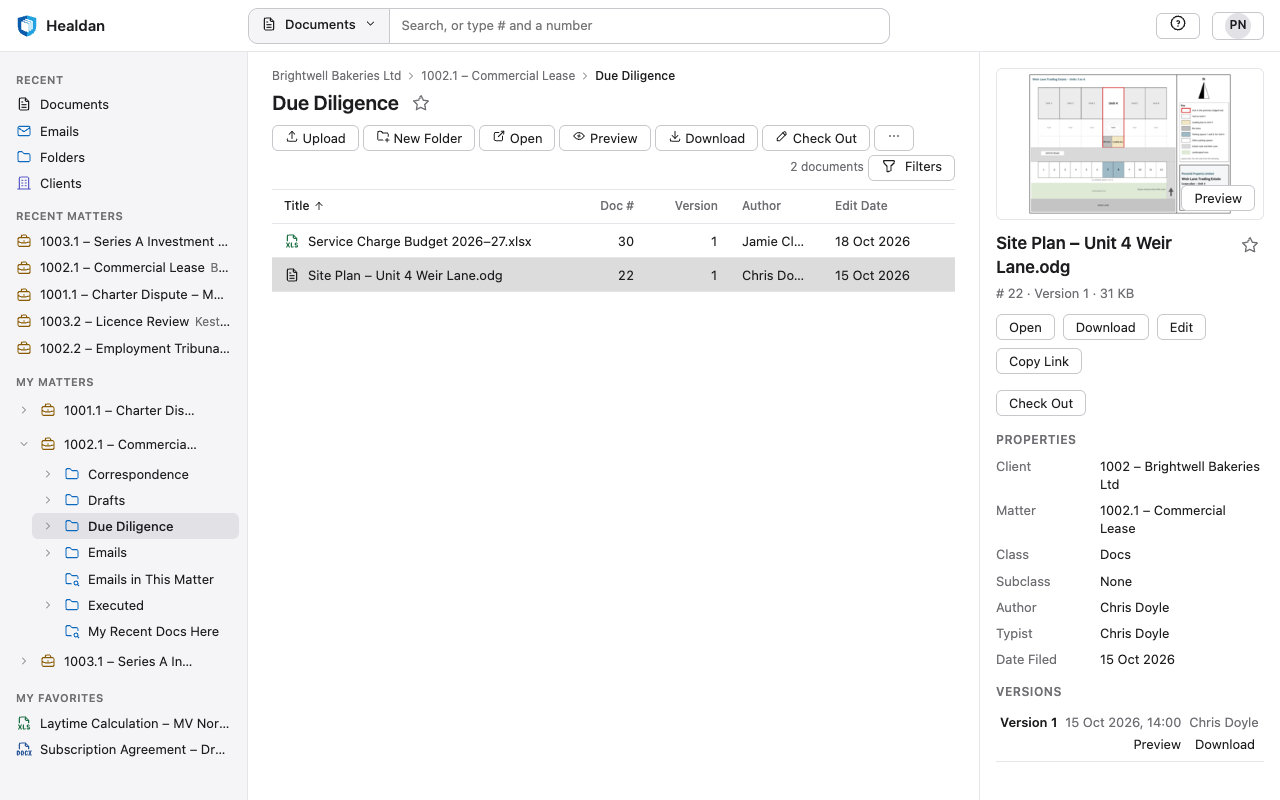
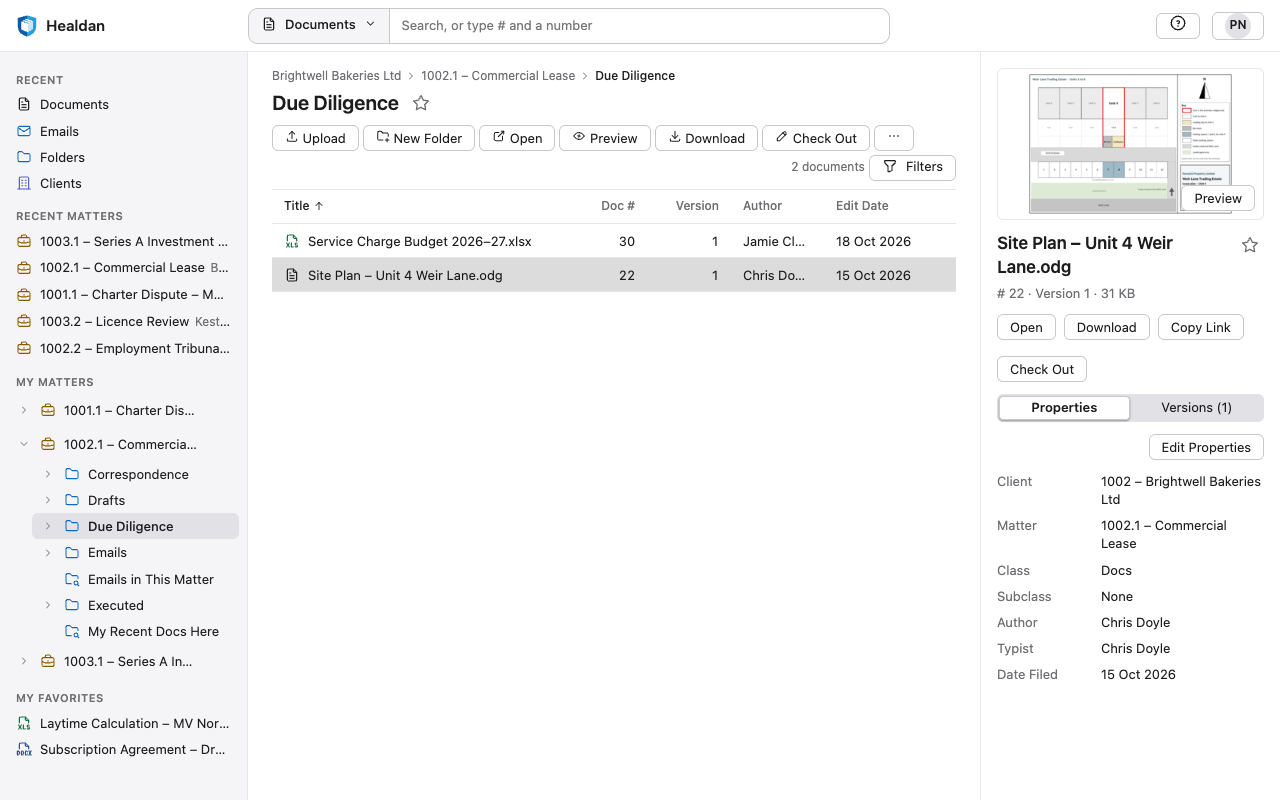
Retake the User Guide's pictures of the details panel
The details panel's new layout (a fixed header with Check-Out Info, the Properties and Versions (n) tabs, and Edit
Properties at the top of Properties) made these pictures untrue. Each is retaken from a fresh demo stack built from this
branch, as #236 took its pictures (headless Chrome on the Mac at 1280 x 800, light, Europe/London, en-GB, as Priya Nair),
and keeps its file name, view and width:

- Getting Around's whole window, Downloading's toolbar (12 pixels taller, so the tab strip isn't cut in half) and
  Finding by Doc #'s page, which now opens on the Versions tab with Version 1.1 marked and fits without scrolling
- Versions: the Versions (3) tab of a folder's selection, without the properties
- Properties: the Edit Properties form with Author's list open, below the tabs
- Checking Out: Check-Out Info after Check Out (User and Check-Out Time, with Check In and Release), and a check-out on
  a computer (User, Check-Out Time, Application Word, Computer Healdan Helper on Office PC), staged through the API
  with a device token named as the helper names its own
- Opening Documents' notice, over the end of the properties rather than the old Versions list

Their alt texts say what each now shows, with the dates this stack gives. The other User Guide pictures show no
details panel or held row, or show the Classic Interface or the helper.

diff --git a/site/content/user/documents/checking-out-and-checking-in/index.md b/site/content/user/documents/checking-out-and-checking-in/index.md
@@ -70,7 +70,7 @@ the **User**. It doesn't download anything: to edit the file, use **Open** (see
 [Opening Documents](../../office/opening-documents/)), or **Download** it (see
 [Downloading Documents](../downloading-documents/)).
 
-![The details of Lease – Draft for Client.docx, # 4, after Check Out: "Checked out by you since 12 Nov 2026, 21:14." with Check In and Release buttons, under its name and Favorites star and Open, Download, Edit and Copy Link](checked-out-by-you.png)
+![The details of Lease – Draft for Client.docx, # 4, after Check Out: Check-Out Info, with User Priya Nair (You) and Check-Out Time 14 Nov 2026, 17:23, and the Check In and Release buttons under it, below its name and Favorites star and Open, Download and Copy Link](checked-out-by-you.png)
 
 You need permission to write the document. **Check Out** is greyed out while someone else has the document checked out
 or locked, and for a document you can't write.
@@ -96,7 +96,7 @@ That goes for your own check-out on a computer too. One you made by opening a do
 [Healdan Helper](../../office/) belongs to that computer, which **Computer** names. Release it there, or in the
 Classic Interface.
 
-![The details of Lease – Engrossment.docx, # 48, held on a computer: "Checked out by you on Healdan Helper on Office PC since 12 Nov 2026, 21:14. Release it on that computer, or in the Classic Interface (Unlock).", with Edit greyed out](checked-out-on-computer.png)
+![The details of Lease – Engrossment.docx, # 48, held on a computer: Check-Out Info, with User Priya Nair (You), Check-Out Time 14 Nov 2026, 17:18, Application Word and Computer Healdan Helper on Office PC, and no Check In or Release, below its name and Favorites star and Open, Download and Copy Link](checked-out-on-computer.png)
 
 A locked document's **Lock Info** says who locked it, and when. A lock is taken off in the Classic Interface (see
 [Locking a Document](../locking-a-document/)).

diff --git a/site/content/user/getting-started/getting-around/index.md b/site/content/user/getting-started/getting-around/index.md
@@ -12,7 +12,7 @@ orange-red, PDFs red, emails blue and pictures purple. Some kinds share a blue, 
 LibreOffice's text documents, spreadsheets and presentations take the colours of their Microsoft Office counterparts,
 and any other kind of file, such as a drawing, has the plain document icon in the colour of the text beside it.
 
-![Healdan's web page in the Due Diligence folder of matter 1002.1 – Commercial Lease: the top bar with the Healdan name, the Documents search box, the ? button and the PN menu; the left pane with Recent, Recent Matters, My Matters opened to the matter's folders, and My Favorites; the folder's two documents, Service Charge Budget 2026–27.xlsx and Site Plan – Unit 4 Weir Lane.odg, with the second selected; and its details at the right, with the thumbnail of the plan, its name with the Favorites star beside it, Open, Download, Edit, Copy Link and Check Out, its properties and its version](whole-window.png)
+![Healdan's web page in the Due Diligence folder of matter 1002.1 – Commercial Lease: the top bar with the Healdan name, the Documents search box, the ? button and the PN menu; the left pane with Recent, Recent Matters, My Matters opened to the matter's folders, and My Favorites; the folder's two documents, Service Charge Budget 2026–27.xlsx and Site Plan – Unit 4 Weir Lane.odg, with the second selected; and its details at the right, with the thumbnail of the plan, its name with the Favorites star beside it, Open, Download, Copy Link and Check Out, then the Properties and Versions (1) tabs, with Properties showing Edit Properties and the plan's properties](whole-window.png)
 
 ## The Top Bar
 

diff --git a/site/content/user/finding-documents/finding-by-doc-number/index.md b/site/content/user/finding-documents/finding-by-doc-number/index.md
@@ -25,7 +25,7 @@ it makes a good link in an email or a note.
 The page shows a list with just that document in it, already selected, and its details at the right: its properties
 and its versions. For a version or snapshot, the details open on the **Versions** tab, with that version marked.
 
-![The page for document # 31 in the web page: the toolbar, with Open, Preview, Download, Check Out and the ⋯ (More) button, above a list with just Subscription Agreement – Draft.docx, version 2, by Helen Ashcombe, selected, and its details at the right with the foot of its thumbnail, its name with the filled Favorites star, its properties in matter 1003.1 – Series A Investment, and its versions, where Version 1.1, saved on 25 Oct 2026 at 15:30 by Priya Nair, is marked](doc-page.png)
+![The page for document # 31 in the web page: the toolbar, with Open, Preview, Download, Check Out and the ⋯ (More) button, above a list with just Subscription Agreement – Draft.docx, version 2, by Helen Ashcombe, selected, and its details at the right with its thumbnail, its name with the filled Favorites star, Open, Download, Copy Link and Check Out, and the Versions (3) tab, where Version 1.1, saved on 25 Oct 2026 at 15:30 by Priya Nair, is marked](doc-page.png)
 
 - **It's found the moment it's filed.** Doc # addresses don't wait for the search index.
 - **If you can't read the document,** Healdan answers as if it didn't exist: "No document # 1234 that you can see."

diff --git a/site/content/user/documents/versions/index.md b/site/content/user/documents/versions/index.md
@@ -38,7 +38,7 @@ take it: see [Filing a Document](../../working-with-matters/filing-a-document/#d
 - **To go back to an earlier snapshot,** promote it from the Versions tab in the Classic Interface. That saves it as
   the latest.
 
-![The details of Subscription Agreement – Draft.docx, # 31, selected in a folder's list: its name with the filled Favorites star, as it's one of your favourites, then Open, Download, Edit, Copy Link and Check Out, its properties (Client 1003 – Kestrel Software Ltd, Matter 1003.1 – Series A Investment, Class Agreements, Subclass Draft, Author Helen Ashcombe, Typist Chris Doyle, Date Filed 16 Oct 2026), and its versions, newest first: Version 2 by Helen Ashcombe on 29 Oct 2026 at 16:00, Version 1.1 by Priya Nair on 23 Oct 2026 at 15:30, and Version 1 by Chris Doyle on 16 Oct 2026 at 14:30, each with Preview and Download](versions.png)
+![The details of Subscription Agreement – Draft.docx, # 31, selected in a folder's list: its name with the filled Favorites star, as it's one of your favourites, then Open, Download, Copy Link and Check Out, and the Versions (3) tab chosen, listing its versions newest first: Version 2 by Helen Ashcombe on 31 Oct 2026 at 16:00, Version 1.1 by Priya Nair on 25 Oct 2026 at 15:30, and Version 1 by Chris Doyle on 18 Oct 2026 at 14:30, each with Preview and Download](versions.png)
 
 ## Finding a Version by Number
 

diff --git a/site/content/user/documents/downloading-documents/index.md b/site/content/user/documents/downloading-documents/index.md
@@ -16,7 +16,7 @@ Select the document and choose **Download**, in the toolbar above the list or in
 Your browser saves the file under the document's name, as it does for any link to a file. Healdan doesn't open the
 file in the page or keep a copy of it there.
 
-![The web page in the Due Diligence folder of matter 1002.1 – Commercial Lease, with Site Plan – Unit 4 Weir Lane.odg selected: the toolbar above the list, with Upload, New Folder, Open, Preview, Download, Check Out and the ⋯ (More) button, the document count and Filters below it, and the document's details at the right, with its name and Favorites star above the Download button](download-toolbar.png)
+![The web page in the Due Diligence folder of matter 1002.1 – Commercial Lease, with Site Plan – Unit 4 Weir Lane.odg selected: the toolbar above the list, with Upload, New Folder, Open, Preview, Download, Check Out and the ⋯ (More) button, the document count and Filters below it, and the document's details at the right, with its name and Favorites star above Open, Download and Copy Link, then Check Out and the Properties and Versions (1) tabs](download-toolbar.png)
 
 If the file can't be reached right now, because it's in cloud storage or on a share that's down, the download fails.
 Your browser shows that in its list of downloads, and some browsers save a small file saying why instead. The app

diff --git a/site/content/user/working-with-matters/properties/index.md b/site/content/user/working-with-matters/properties/index.md
@@ -28,7 +28,7 @@ Your administrator can add more properties.
 Choose **Edit Properties**, at the top of the **Properties** tab in a document's details. The properties become a
 form, made from the profile, so your firm's own properties are in it.
 
-![The details of Service Charge Budget 2026–27.xlsx, # 30, with its properties as a form: Client and Matter as text; Author with "Pri" typed and its list open, offering Jamie Clarke, the person it has now, first, then Priya Nair; Class (required) Finance, Subclass Statement, Comments and Legacy doc # as fields; and the Save and Cancel buttons](edit-properties.png)
+![The details of Service Charge Budget 2026–27.xlsx, # 30, on the Properties tab after Edit Properties, which is greyed out while its properties are a form: Client and Matter as text; Author with "Pri" typed and its list open, offering Jamie Clarke, the person it has now, first, then Priya Nair; Class (required) Finance, Subclass Statement, Comments and Legacy doc # as fields; and the Save and Cancel buttons](edit-properties.png)
 
 - **A required property has a \* after its name.** Class is required.
 - **A property picked from a list offers only its options.** A Subclass offers only the ones that belong to the Class
